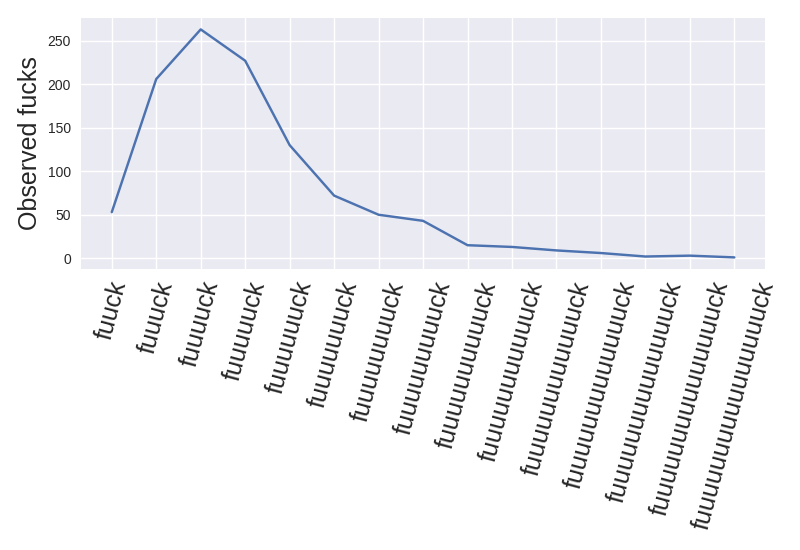
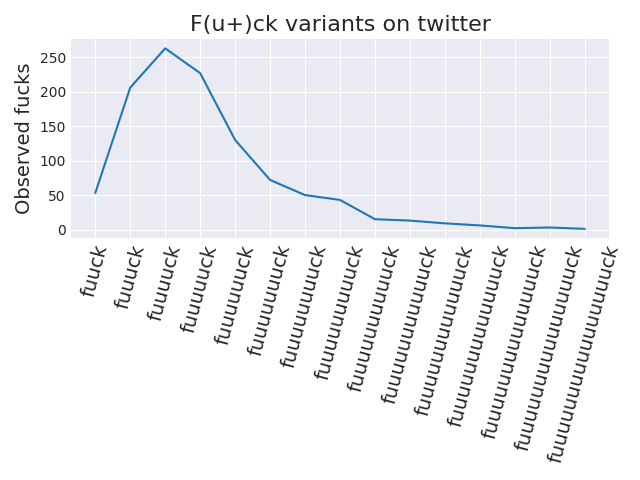
Update variants

diff --git a/src/plot_variants.py b/src/plot_variants.py
@@ -2,11 +2,12 @@ import matplotlib.pyplot as plt
 import pandas as pd
 import seaborn as sns
 import os, re
+sns.set_style('darkgrid')
 
 save_dest = 'figures'
 os.system('mkdir -p {}'.format(save_dest))
 
-df = pd.read_csv("data/fuck_variations.csv")#.set_index('word')
+df = pd.read_csv("data/fuck_variations.csv")
 pattern = re.compile(r'[f][u](u+)[c][k]$')
 idx = df.word.str.match(pattern)
 df = df[idx]
@@ -16,8 +17,10 @@ df = df.sort_values('u_count').set_index('u_count')
 # Cutoff at a reasonable point
 df = df[:15]
 plt.plot(df.index, df["count"])
-plt.xticks(df.index, df.word, rotation=75,fontsize=18)
-plt.ylabel("Observed fucks",fontsize=18)
+fs = 14
+plt.xticks(df.index, df.word, rotation=75,fontsize=fs)
+plt.ylabel("Observed fucks",fontsize=fs)
+plt.title("F(u+)ck variants on twitter", fontsize=fs+2)
 plt.tight_layout()
 plt.savefig("figures/fuuuucks.png")
 plt.show()
